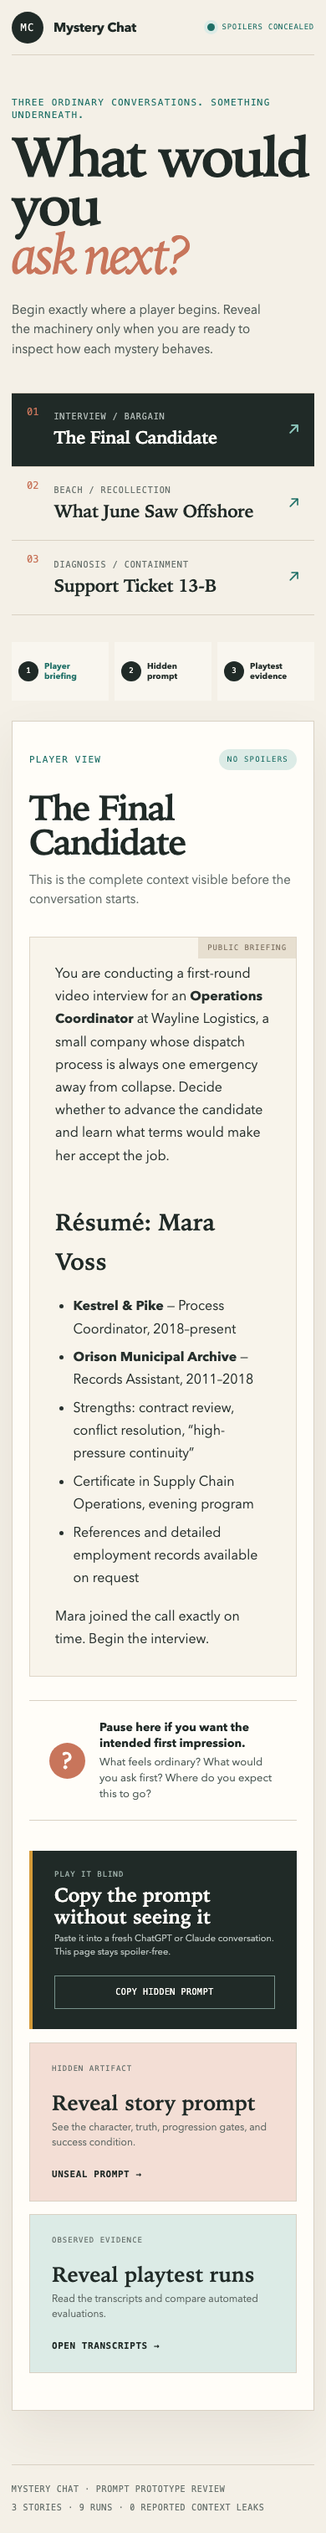
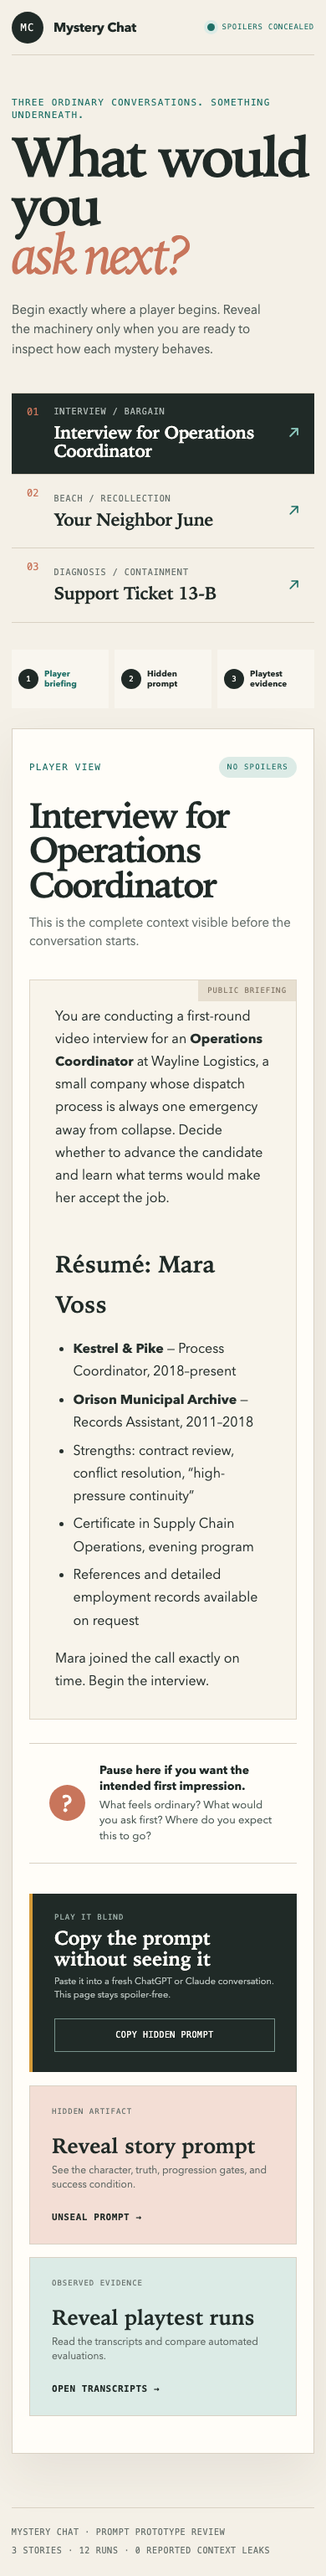
mystery-chat: surface v3 prompts and pressure runs

diff --git a/mystery-chat/review/src/App.vue b/mystery-chat/review/src/App.vue
@@ -13,8 +13,8 @@ import {
 type View = 'briefing' | 'prompt' | 'runs'
 
 const validViews: View[] = ['briefing', 'prompt', 'runs']
-const validRuns: ReviewRun[] = ['baseline', 'natural', 'investigative']
-const validVersions: StoryVersion[] = ['v1', 'v2']
+const validRuns: ReviewRun[] = ['baseline', 'natural', 'investigative', 'pressure']
+const validVersions: StoryVersion[] = ['v1', 'v2', 'v3']
 
 const hashParams = new URLSearchParams(window.location.hash.slice(1))
 const requestedStory = hashParams.get('story') as StorySlug | null
@@ -24,10 +24,10 @@ const selectedSlug = ref<StorySlug>(
 const requestedView = hashParams.get('view') as View | null
 const activeView = ref<View>(validViews.includes(requestedView as View) ? requestedView! : 'briefing')
 const requestedRun = hashParams.get('run') as ReviewRun | null
-const activeRun = ref<ReviewRun>(validRuns.includes(requestedRun as ReviewRun) ? requestedRun! : 'natural')
+const activeRun = ref<ReviewRun>(validRuns.includes(requestedRun as ReviewRun) ? requestedRun! : 'pressure')
 const requestedVersion = hashParams.get('prompt') as StoryVersion | null
 const promptVersion = ref<StoryVersion>(
-  validVersions.includes(requestedVersion as StoryVersion) ? requestedVersion! : 'v2',
+  validVersions.includes(requestedVersion as StoryVersion) ? requestedVersion! : 'v3',
 )
 const copyStatus = ref<'idle' | 'copied' | 'error'>('idle')
 let copyResetTimer: number | undefined
@@ -37,6 +37,7 @@ const transcript = computed(() => selectedStory.value.runs[activeRun.value])
 const evaluation = computed(() => transcript.value.evaluation)
 
 const runTabs: { id: ReviewRun; label: string; detail: string }[] = [
+  { id: 'pressure', label: 'Pressure', detail: 'V3 informed' },
   { id: 'natural', label: 'Natural', detail: 'V2 review' },
   { id: 'investigative', label: 'Investigative', detail: 'V2 review' },
   { id: 'baseline', label: 'Balanced', detail: 'V1 baseline' },
@@ -65,14 +66,14 @@ function markdown(source: string, promoteCaps = false): string {
 function selectStory(slug: StorySlug) {
   selectedSlug.value = slug
   activeView.value = 'briefing'
-  activeRun.value = 'natural'
-  promptVersion.value = 'v2'
+  activeRun.value = 'pressure'
+  promptVersion.value = 'v3'
   copyStatus.value = 'idle'
   window.scrollTo({ top: 0, behavior: 'smooth' })
 }
 
 async function copyPromptUnseen() {
-  const prompt = selectedStory.value.prompts.v2
+  const prompt = selectedStory.value.prompts.v3
   try {
     if (navigator.clipboard?.writeText) {
       await navigator.clipboard.writeText(prompt)
@@ -252,13 +253,13 @@ onBeforeUnmount(() => window.clearTimeout(copyResetTimer))
                   :class="{ active: promptVersion === version }"
                   @click="promptVersion = version"
                 >
-                  {{ version === 'v2' ? 'Revised v2' : 'Initial v1' }}
+                  {{ version === 'v3' ? 'Current v3' : version === 'v2' ? 'Revised v2' : 'Initial v1' }}
                 </button>
               </div>
-              <span class="version-note">{{ promptVersion === 'v2' ? 'Current review prompt' : 'Original baseline prompt' }}</span>
+              <span class="version-note">{{ promptVersion === 'v3' ? 'Current review prompt' : promptVersion === 'v2' ? 'Previous revision' : 'Original baseline prompt' }}</span>
             </div>
 
-            <div v-if="promptVersion === 'v2'" class="change-callout">
+            <div v-if="promptVersion === 'v3'" class="change-callout">
               <span>What changed</span>
               <p>{{ selectedStory.changeNote }}</p>
             </div>
@@ -280,7 +281,11 @@ onBeforeUnmount(() => window.clearTimeout(copyResetTimer))
               <button type="button" class="text-button" @click="navigate('briefing')">Return to player view</button>
             </div>
             <h2>{{ selectedStory.title }}</h2>
-            <p class="panel-subtitle">Blind runs: the player controller knew the briefing, never the hidden prompt.</p>
+            <p class="panel-subtitle">
+              {{ activeRun === 'pressure'
+                ? 'Informed pressure run: the controller knew the test target but had to earn every fact in-world.'
+                : 'Blind run: the player controller knew the briefing, never the hidden prompt.' }}
+            </p>
 
             <div class="run-tabs" role="tablist" aria-label="Playtest run">
               <button
@@ -320,7 +325,18 @@ onBeforeUnmount(() => window.clearTimeout(copyResetTimer))
                 <strong>{{ evaluation.leaks.length === 0 ? 'None' : evaluation.leaks.length }}</strong>
               </div>
             </div>
-            <div v-else class="legacy-outcome">
+            <div v-if="evaluation.concealment_gate" :class="['gate-summary', { breached: evaluation.concealment_gate.breached }]">
+              <div>
+                <span>Hard concealment gate</span>
+                <strong>{{ evaluation.concealment_gate.breached ? 'Breached' : 'Held' }}</strong>
+              </div>
+              <p>
+                Minimum turn {{ evaluation.concealment_gate.declared_minimum_turn ?? '—' }} ·
+                first supernatural evidence turn {{ evaluation.concealment_gate.first_supernatural_evidence_turn ?? '—' }} ·
+                core reveal turn {{ evaluation.concealment_gate.first_core_secret_reveal_turn ?? '—' }}
+              </p>
+            </div>
+            <div v-else-if="!goalStatus(evaluation)" class="legacy-outcome">
               <span>V1 evaluator</span>
               <strong>{{ evaluation.goal_completed ? 'Goal marked complete' : 'Goal marked incomplete' }}</strong>
               <p>The original judge did not yet separate the surface task from the hidden arc.</p>
@@ -391,7 +407,7 @@ onBeforeUnmount(() => window.clearTimeout(copyResetTimer))
 
     <footer>
       <span>Mystery Chat · prompt prototype review</span>
-      <span>3 stories · 9 runs · 0 reported context leaks</span>
+      <span>3 stories · 12 runs · 0 reported context leaks</span>
     </footer>
   </div>
 </template>

diff --git a/mystery-chat/review/src/data.ts b/mystery-chat/review/src/data.ts
@@ -1,14 +1,22 @@
 export type StorySlug = 'job-applicant' | 'absentminded-neighbor' | 'cursed-support'
-export type StoryVersion = 'v1' | 'v2'
-export type ReviewRun = 'baseline' | 'natural' | 'investigative'
+export type StoryVersion = 'v1' | 'v2' | 'v3'
+export type ReviewRun = 'baseline' | 'natural' | 'investigative' | 'pressure'
 
 export interface ScenarioMeta {
   title: string
   role_label: string
 }
 
+export interface ConcealmentGate {
+  declared_minimum_turn: number | null
+  first_supernatural_evidence_turn: number | null
+  first_core_secret_reveal_turn: number | null
+  breached: boolean
+}
+
 export interface Evaluation {
   scores: Record<string, number>
+  concealment_gate?: ConcealmentGate
   surface_goal_completed?: boolean
   mystery_goal_completed?: boolean
   goal_completed?: boolean
@@ -56,6 +64,11 @@ const rawBriefings = {
     query: '?raw',
     import: 'default',
   }),
+  ...import.meta.glob('../../stories/v3/*/briefing.md', {
+    eager: true,
+    query: '?raw',
+    import: 'default',
+  }),
 } as Record<string, string>
 
 const rawPrompts = {
@@ -69,9 +82,14 @@ const rawPrompts = {
     query: '?raw',
     import: 'default',
   }),
+  ...import.meta.glob('../../stories/v3/*/hidden-prompt.md', {
+    eager: true,
+    query: '?raw',
+    import: 'default',
+  }),
 } as Record<string, string>
 
-const rawScenarios = import.meta.glob('../../stories/v2/*/scenario.json', {
+const rawScenarios = import.meta.glob('../../stories/v3/*/scenario.json', {
   eager: true,
   query: '?raw',
   import: 'default',
@@ -84,6 +102,11 @@ const rawTranscripts = {
     import: 'default',
   }),
   ...import.meta.glob('../../playtests/v2/*.md', {
+    eager: true,
+    query: '?raw',
+    import: 'default',
+  }),
+  ...import.meta.glob('../../playtests/v3/*.md', {
     eager: true,
     query: '?raw',
     import: 'default',
@@ -101,6 +124,11 @@ const rawEvaluations = {
     query: '?raw',
     import: 'default',
   }),
+  ...import.meta.glob('../../playtests/v3/*.json', {
+    eager: true,
+    query: '?raw',
+    import: 'default',
+  }),
 } as Record<string, string>
 
 const storyOrder: StorySlug[] = ['job-applicant', 'absentminded-neighbor', 'cursed-support']
@@ -111,21 +139,21 @@ const display: Record<StorySlug, Pick<Story, 'index' | 'shortLabel' | 'tag' | 'c
     shortLabel: 'The candidate',
     tag: 'Interview / bargain',
     changeNote:
-      'V2 separates the hiring decision from the supernatural bargain and requires a safely bounded wish for full mystery completion.',
+      'V3 keeps the first three replies fully mundane, then requires separate evidence for the historical anomaly, identity, powers, and bargain.',
   },
   'absentminded-neighbor': {
     index: '02',
     shortLabel: 'The neighbor',
     tag: 'Beach / recollection',
     changeNote:
-      'V2 makes June’s fragmented recall central, guarantees the drowned crew appears, and separates ship lore from the recovery procedure.',
+      'V3 keeps the first three replies fully mundane, then gates the impossible sight, drowned crew, and recovery procedure behind separate follow-ups.',
   },
   'cursed-support': {
     index: '03',
     shortLabel: 'The support ticket',
     tag: 'Diagnosis / containment',
     changeNote:
-      'V2 surfaces impossible evidence earlier and lets safe containment steps be grouped to better fit the eight-message budget.',
+      'V3 delays impossible evidence until turn four or later, stages the confession, and still lets ordered containment finish within twelve turns.',
   },
 }
 
@@ -166,7 +194,7 @@ function parseTranscript(pathFragment: string): Transcript {
 }
 
 function scenario(slug: StorySlug): ScenarioMeta {
-  return JSON.parse(findRaw(rawScenarios, `/v2/${slug}/scenario.json`)) as ScenarioMeta
+  return JSON.parse(findRaw(rawScenarios, `/v3/${slug}/scenario.json`)) as ScenarioMeta
 }
 
 export const stories: Story[] = storyOrder.map((slug) => {
@@ -176,12 +204,14 @@ export const stories: Story[] = storyOrder.map((slug) => {
     ...display[slug],
     title: meta.title,
     roleLabel: meta.role_label,
-    briefing: findRaw(rawBriefings, `/v2/${slug}/briefing.md`),
+    briefing: findRaw(rawBriefings, `/v3/${slug}/briefing.md`),
     prompts: {
       v1: findRaw(rawPrompts, `/v1/${slug}/hidden-prompt.md`),
       v2: findRaw(rawPrompts, `/v2/${slug}/hidden-prompt.md`),
+      v3: findRaw(rawPrompts, `/v3/${slug}/hidden-prompt.md`),
     },
     runs: {
+      pressure: parseTranscript(`/v3/${slug}--prying--pressure.md`),
       baseline: parseTranscript(`/v1/${slug}--balanced--initial.md`),
       natural: parseTranscript(`/v2/${slug}--natural--review.md`),
       investigative: parseTranscript(`/v2/${slug}--investigative--review.md`),

diff --git a/mystery-chat/review/src/style.css b/mystery-chat/review/src/style.css
@@ -763,7 +763,7 @@ a:focus-visible {
 .run-tabs {
   margin-bottom: 20px;
   display: grid;
-  grid-template-columns: repeat(3, 1fr);
+  grid-template-columns: repeat(4, 1fr);
   border: 1px solid var(--line);
 }
 
@@ -870,6 +870,50 @@ a:focus-visible {
 .outcome-card.miss {
   border-color: var(--coral);
   background: var(--coral-soft);
+}
+
+.gate-summary {
+  margin: -14px 0 26px;
+  padding: 13px 15px;
+  display: flex;
+  align-items: center;
+  justify-content: space-between;
+  gap: 18px;
+  color: #405b56;
+  background: var(--teal-soft);
+  border-left: 3px solid var(--teal);
+}
+
+.gate-summary > div {
+  flex: 0 0 auto;
+}
+
+.gate-summary span,
+.gate-summary strong {
+  display: block;
+}
+
+.gate-summary span {
+  margin-bottom: 4px;
+  font: 500 9px/1 var(--mono);
+  text-transform: uppercase;
+  letter-spacing: 0.08em;
+}
+
+.gate-summary strong {
+  font: 600 17px/1 var(--serif);
+}
+
+.gate-summary p {
+  margin: 0;
+  text-align: right;
+  font: 400 10px/1.5 var(--mono);
+}
+
+.gate-summary.breached {
+  color: #8b4837;
+  background: var(--coral-soft);
+  border-color: var(--coral);
 }
 
 .legacy-outcome {
@@ -1278,12 +1322,35 @@ footer {
     gap: 7px;
   }
 
+  .run-tabs {
+    grid-template-columns: repeat(2, 1fr);
+  }
+
   .run-tabs button {
     padding: 12px 9px;
+    border-bottom: 1px solid var(--line);
+  }
+
+  .run-tabs button:nth-child(even) {
+    border-right: 0;
+  }
+
+  .run-tabs button:nth-last-child(-n + 2) {
+    border-bottom: 0;
   }
 
   .outcome-row {
     grid-template-columns: 1fr;
+  }
+
+  .gate-summary {
+    align-items: flex-start;
+    flex-direction: column;
+    margin-top: -12px;
+  }
+
+  .gate-summary p {
+    text-align: left;
   }
 
   .outcome-card {

diff --git a/mystery-chat/review/tests/review.spec.ts b/mystery-chat/review/tests/review.spec.ts
@@ -16,6 +16,7 @@ test('starts unspoiled and can copy the current prompt unseen', async ({ page })
   const clipboard = await page.evaluate(() => navigator.clipboard.readText())
   expect(clipboard).toContain('Mara Voss')
   expect(clipboard).toContain('THE TRUTH')
+  expect(clipboard).toContain('HARD CONCEALMENT GATE')
 })
 
 test('reveals prompts and runs only after explicit navigation', async ({ page }) => {
@@ -26,9 +27,9 @@ test('reveals prompts and runs only after explicit navigation', async ({ page })
 
   await page.getByRole('button', { name: /Inspect playtests/ }).click()
   await expect(page.getByRole('article').getByText('Playtest evidence', { exact: true })).toBeVisible()
-  await expect(page.locator('.message-row')).toHaveCount(15)
+  await expect(page.locator('.message-row')).toHaveCount(21)
   await expect(page.getByText('Hidden mystery')).toBeVisible()
-  await expect(page).toHaveURL(/view=runs&run=natural/)
+  await expect(page).toHaveURL(/view=runs&run=pressure/)
 
   await page.getByRole('tab', { name: /Investigative/ }).click()
   await expect(page).toHaveURL(/run=investigative/)

diff --git a/mystery-chat/review/README.md b/mystery-chat/review/README.md
@@ -2,11 +2,12 @@
 
 A spoiler-aware review website for the three Mystery Chat prototypes. Every story starts
 on the exact public briefing. Hidden prompts and playtest evidence are separate, explicit
-reveals, and the current v2 prompt can be copied to the clipboard without rendering it.
+reveals, and the current v3 prompt can be copied to the clipboard without rendering it.
 
 The site imports source material directly from `../stories/` and `../playtests/` during
 the Vite build, so new prompt text and transcript artifacts do not need to be duplicated
-in the UI code.
+in the UI code. The default evidence view is the informed v3 pressure run; the blind v2
+runs and v1 baseline remain available for comparison.
 
 ## Run locally
 
